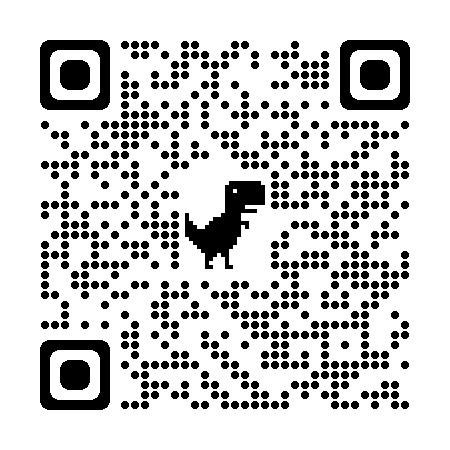
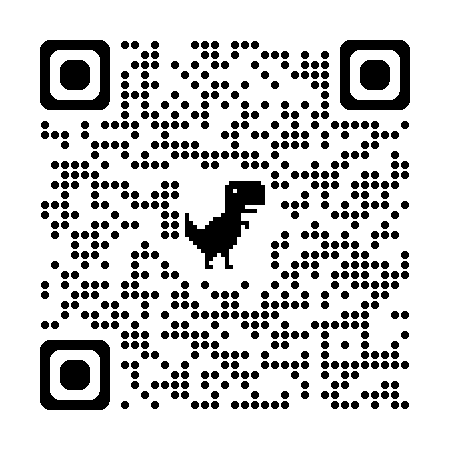
refresh ID card

diff --git a/docs/card/index.html b/docs/card/index.html
@@ -1,126 +1,5 @@
-<!DOCTYPE html>
-<html lang="en-US">
-  <head>
-    <meta name="generator" content="Hugo 0.37.1"/>
-    <meta charset="utf-8"/>
-    <meta http-equiv="X-UA-Compatible" content="chrome=1"/>
-    <meta name="HandheldFriendly" content="True"/>
-    <meta name="MobileOptimized" content="320"/>
-    <meta name="viewport" content="width=device-width, initial-scale=1.0"/>
-    <meta name="referrer" content="no-referrer"/>
-
-    
-    <meta name="robots" content="noindex">
-    
-
-    <meta name="description" content=""/>
-
-    <meta name="twitter:card" content="summary"/>
-    <meta name="twitter:domain" content="www.erikvanek.com"/>
-
-    <meta name="twitter:image" content="/zen-circle.ico"/>
-    <meta
-      name="twitter:title"
-      property="og:title"
-      itemprop="title name"
-      content="Say Hi! | Erik Vaněk"
-/>
-    <meta
-      name="twitter:description"
-      property="og:description"
-      itemprop="description"
-      content=""
-/>
-    <meta name="og:type" content="website"/>
-    <meta name="og:url" content="www.erikvanek.com/"/>
-    <meta
-      name="og:image"
-      itemprop="image primaryImageOfPage"
-      content="/zen-circle.ico"
-/>
-
-    <title>Say Hi! | Erik Vaněk</title>
-    <link rel="shortcut icon" href="/zen-circle.ico" id="favicon"/>
-    <link rel="stylesheet" href="/css/2024.css"/>
-    <link rel="stylesheet" href="/css/blog-2024.css"/>
-    <link rel="preconnect" href="https://fonts.googleapis.com"/>
-    <link rel="preconnect" href="https://fonts.gstatic.com" crossorigin/>
-    <link
-      href="https://fonts.googleapis.com/css2?family=Inter:wght@500&display=swap"
-      rel="stylesheet"
-/>
-  </head>
-
-</html>
-<body>
-
-  <nav>
-    <ul class="menu" id="menu">
-      <li>
-        <a href="/">Home</a>
-      </li>
-      <li>
-        <a href="/profile">Profile</a>
-      </li>
-      <!-- <li>
-                        <a href="/work">Work</a>
-                    </li> -->
-      <li>
-        <a href="/blog">Blog</a>
-      </li>
-      <a class="close" href="#">
-        <svg width="100%" height="100%" viewBox="0 0 24 24" fill="none" xmlns="http://www.w3.org/2000/svg">
-          <path d="M18 6L6 18M6 6L18 18" stroke-width="2" stroke-linecap="round"
-                            stroke-linejoin="round"/>
-        </svg>
-      </a>
-    </ul>
-    <a href="/" id="home">erikvanek.com</a>
-    <a class="hamburger" href="#menu">
-      <svg width="100%" height="100%" viewBox="0 0 24 24" xmlns="http://www.w3.org/2000/svg">
-        <path d="M3 12H21M3 6H21M9 18H21" stroke="currentColor" stroke-width="2" stroke-linecap="round"
-                        stroke-linejoin="round"/>
-      </svg>
-    </a>
-  </nav>
-
-  <div class="section" id="splash">
-    <div class="article">
-      
-      <h1>Say Hi!</h1>
-      
-      
-      
-        
-      
-
-      <article><p><img src="/img/qrcode_erikvanek.com.png" style="mix-blend-mode: color-dodge"></img></p>
-</article>
-    </div>
-  </div>
-
-  <script type="text/javascript">
-    document.addEventListener("DOMContentLoaded", (event) => {
-      const path = window
-        .location
-        .pathname
-        .replaceAll('/', '');
-      const children = document.querySelectorAll('nav > ul > li');
-      console.log(path)
-      if (path === '') {
-        children[0]
-          .classList
-          .add('nav-active')
-      } else if (path === 'profile') {
-        children[1]
-          .classList
-          .add('nav-active')
-      } else if (path === 'blog') {
-        children[2]
-          .classList
-          .add('nav-active')
-      }
-    })
-  </script>
-
-</body>
+<p><link rel="stylesheet" href="/css/2024.css" /></p>
+<div style="display: flex; flex-direction: column;max-width: 80%; margin: 0 auto;">
+<h1 style="margin: calc(var(--base-size)* 4) 0; text-align: center;">Say hi!</h1>
+<img src="/img/qrcode_erikvanek.com.png" style="mix-blend-mode: color-dodge"></img>
+</div>

diff --git a/pages/card.md b/pages/card.md
@@ -3,9 +3,13 @@ title: Say Hi!
 date: 2022-11-16
 hideDate: true
 hideNavigation: true
-layout: blog.njk
 noIndex: true
 
 ---
 
+    <link rel="stylesheet" href="/css/2024.css" />
+
+<div style="display: flex; flex-direction: column;max-width: 80%; margin: 0 auto;">
+<h1 style="margin: calc(var(--base-size)* 4) 0; text-align: center;">Say hi!</h1>
 <img src="/img/qrcode_erikvanek.com.png" style="mix-blend-mode: color-dodge"></img>
+</div>
